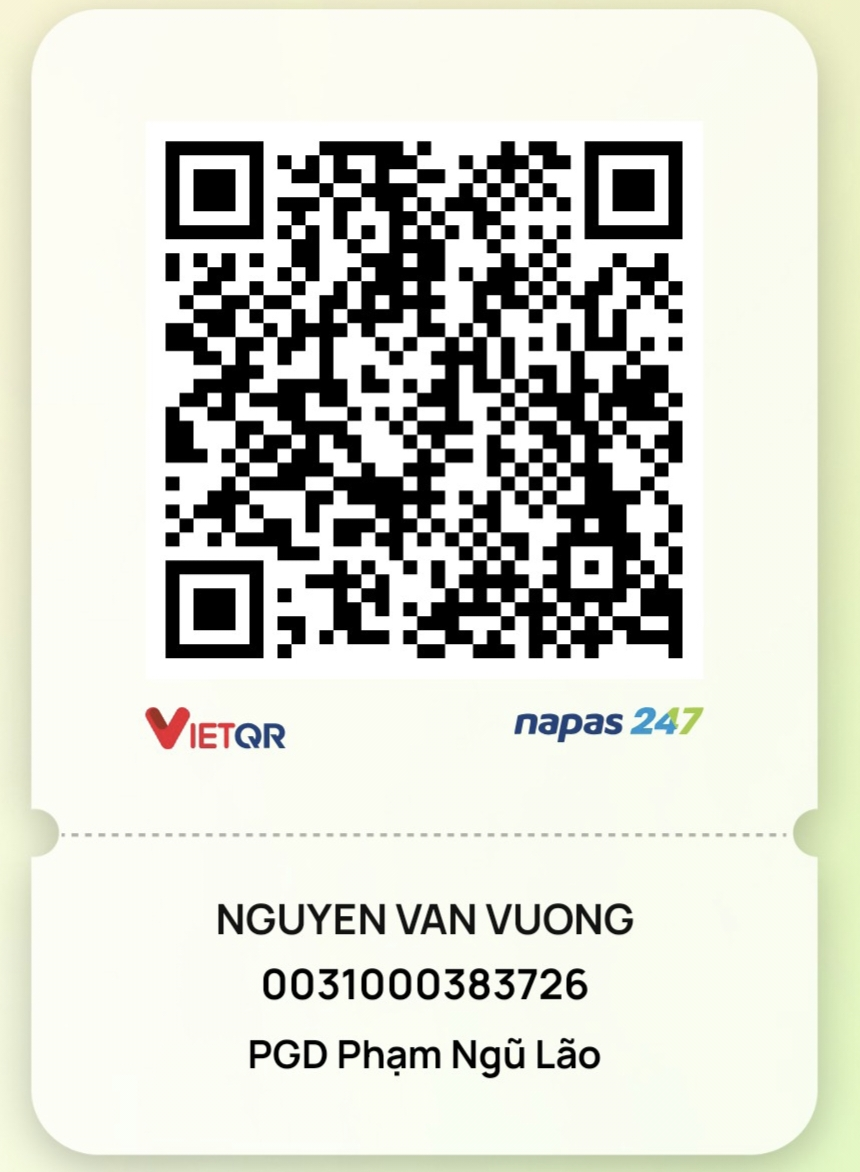
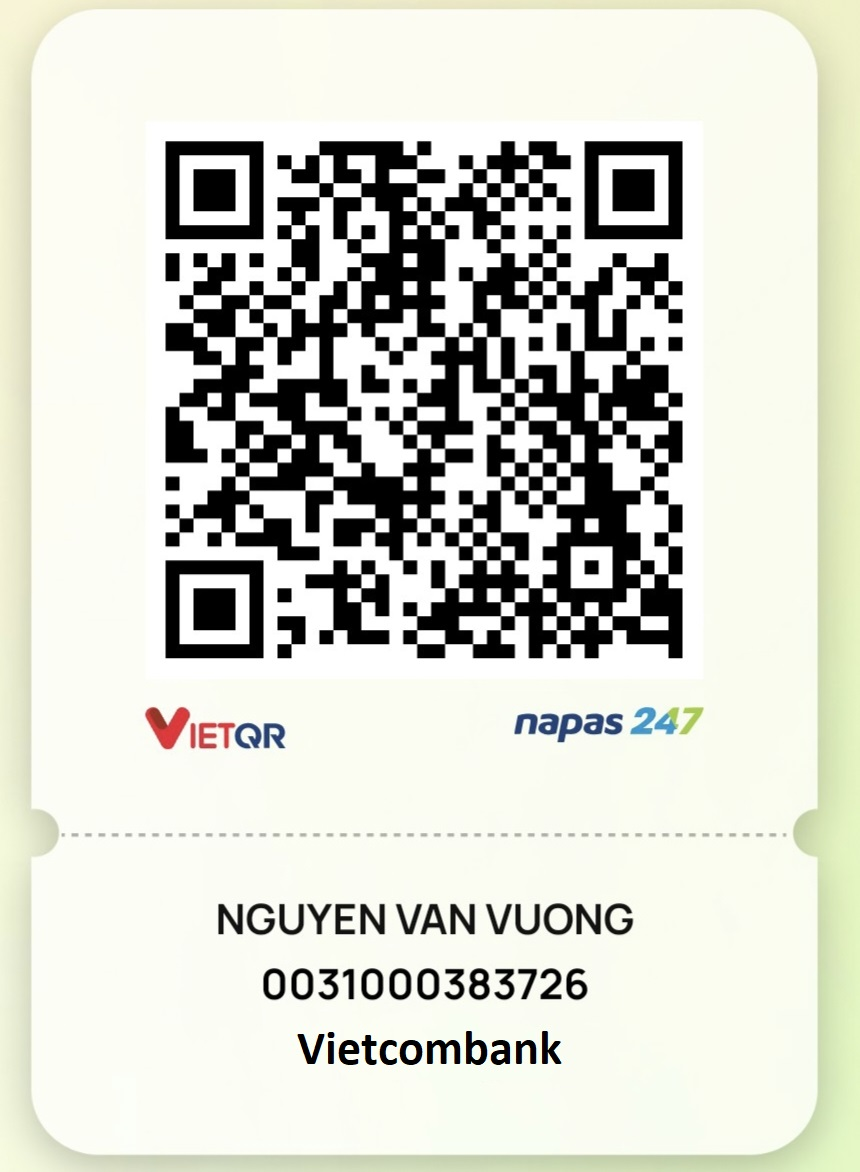
Add files via upload

Changed region(s): [[0.2721, 0.8601, 0.6953, 0.9215]]

diff --git a/lenh.html b/lenh.html
@@ -19,4 +19,7 @@ Thay vì phải đợi trời có nắng to để công suất hoà lưới dư 
 <li> Nhập lệnh để cấu hình theo dõi qua Firebase</li>
 Khi đã tạo Project Firebase thành công, sẽ nhập các giá trị như sau.<br>
 - Nhập lệnh <span style=color:blue>key</span><span style=color:red>AIzaSyXXX-XXXXXX</span> (chính là giá trị của apiKey: "AIzaSyXXX-XXXXXX")<br>
-- Nhập lệnh <span style=color:blue>data</span><span style=color:red>https://your-project-id-default-rtdb.firebaseio.com</span> (chính là giá trị của databaseURL: "https://your-project-id-default-rtdb.firebaseio.com")
+- Nhập lệnh <span style=color:blue>data</span><span style=color:red>https://your-project-id-default-rtdb.firebaseio.com</span> (chính là giá trị của databaseURL: "https://your-project-id-default-rtdb.firebaseio.com")<br>
+<br>
+Nếu bạn cảm thấy giải pháp này hữu ích hãy ủng hộ mình 1 ly cafe. Thanks!<br>
+<img width="25%" src="QR.jpg"></img>
